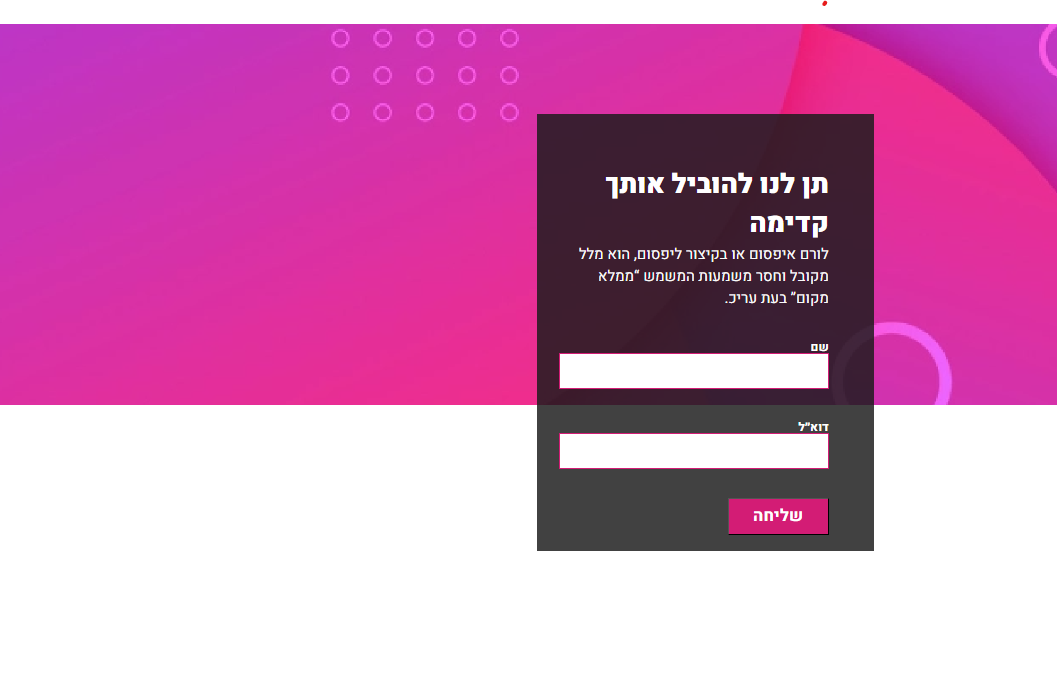
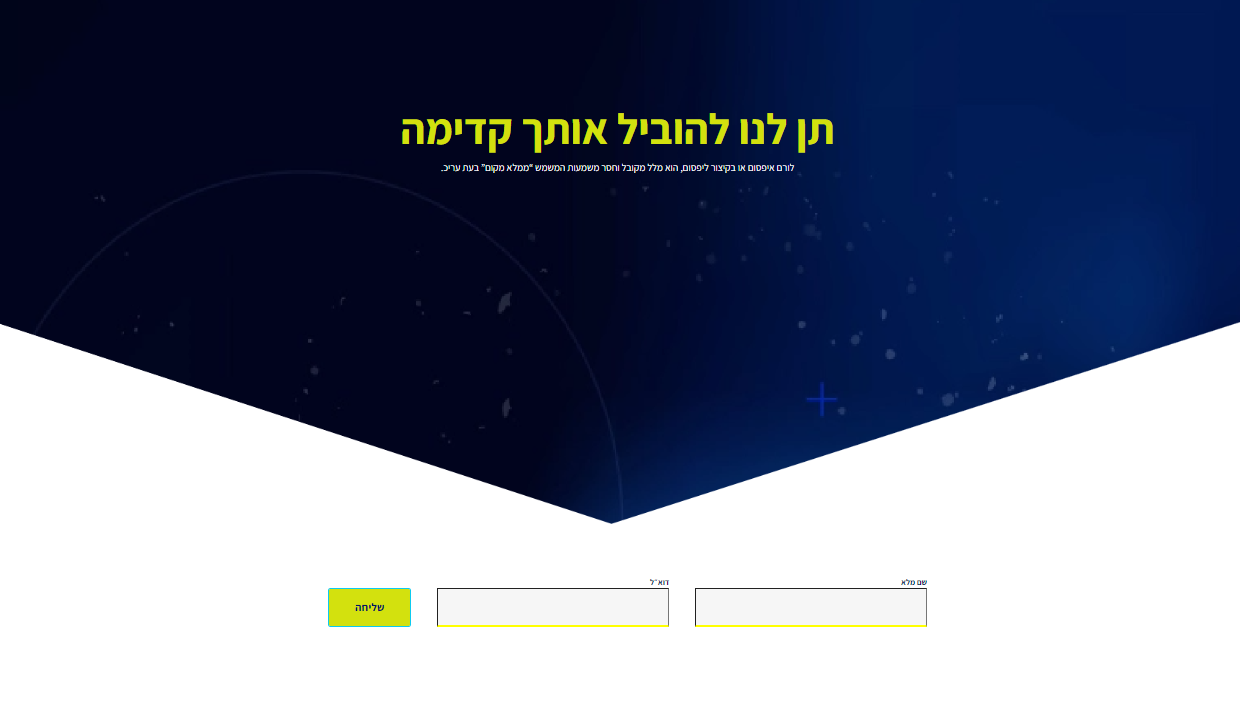
end project 4

diff --git a/projects/projectName4/style/project4.css b/projects/projectName4/style/project4.css
@@ -7,132 +7,111 @@
 html {
   scroll-behavior: smooth;
 }
+
 .mainBox {
   width: 100vw;
   display: flex;
   flex-direction: column;
   align-items: center;
-  margin-top: 26vh;
+  margin-top: 16vh;
 }
 h1 {
   font: normal normal bold 86px/113px Assistant;
-  letter-spacing: 0px;
-  color: #d3e10e;
+   color: #d3e10e;
 }
 p {
   font: normal normal normal 20px/26px Assistant;
-  letter-spacing: 0px;
+  
   color: #f9f9f9;
   /* margin-bottom: 38vh; */
 }
 
-.gridForm{
+.gridForm {
   display: grid;
-  grid-template-columns:  20vw 20vw 8vw;
-  grid-template-rows: auto auto ;
-  margin-top: 37vh;
-  gap: 3vw;
+  grid-template-columns: 20vw 20vw 8vw;
+  grid-template-rows: auto auto;
+  margin-top: 50vh;
   
-  /* background-color: pink; */
-  /* gap: 20px; */
 }
-
-.gridItem{
-  /* background-color: #f0f0f0; Light gray background */
-  /* border: 1px solid #ccc; Border for grid items */
-  /* padding: 10px; Add padding for spacing */
-}
-
 
 .form-control-input {
-  width: 20vw;
+  width: 18vw;
   height: 5vh;
-  /* height: 50px; */
-  /* UI Properties */
+  
   background: #f6f6f6 0% 0% no-repeat padding-box;
-  /* margin-left: 20px; */
+  
+  border-bottom: 5px solid yellow;
 }
 
 .form-control-label {
+  width: 18vw;
   font: normal normal bold 16px/21px Assistant;
-  letter-spacing: 0px;
+  
   color: #011560;
-  height: 5vh;
-  /* margin-left: 20px; */
+  
 }
 
 .submitFont {
-  width: 8vw;
+  width: 166px;
   height: 5vh;
   font: normal normal bold 22px/30px Assistant;
   letter-spacing: 0.33px;
   color: #011560;
   background: #d3e10e 0% 0% no-repeat padding-box;
-  
+  color: #011560;
 }
 .submitFont:hover {
   background-color: lightyellow;
 }
 
-@media (max-width: 1200px) {
-  .mainBox {
-    width: 80vw;
-    height: 70vh;
-  }
+.imageForMobile {
+  display: none;
+}
 
-  #container {
-    flex-direction: column;
+/* @media (max-width: 1200px) { */
+@media (max-width: 768px) {
+  .imageForMobile {
+    display: block;
+    /* width: 100%; */
   }
-  .container-img {
-    width: 100vw;
+  .mainBox{
+    margin-top: 0vh;
   }
-  .container-img > img {
-    width: 100%;
-    height: 30vh;
-    object-fit: cover;
+  .bodyFormat {
+    background: none;
   }
   h1 {
-    font: normal normal 900 1em Heebo;
-    width: 70vw;
+    display: none;
   }
   p {
-    font: normal normal normal 0.8em Heebo;
-    width: 70vw;
-  }
-  #email,
-  #name {
-    width: 70vw;
-    height: 2.5vm;
+    display: none;
   }
 
-  .container-form {
-    width: 100%;
-    margin-top: 5em;
-  }
-  /* .form-control > label { */
-  .form-control-label {
-    font: normal normal bold 0.8em Heebo;
-    /* height: 14px; */
-
-    color: #2c2c2c;
-
-    /* margin-bottom: 5px; */
-  }
-  .container-form-title > h1 {
-    font: normal normal 900 28px/41px Heebo;
-
-    color: #020253;
-  }
-  .container-form-title > p {
+  form-control-label {
     font: normal normal normal 15px/22px Heebo;
+  }
 
-    color: #020253;
-  }
-  .container-form-title {
-    width: 78%;
-  }
   .submitFont {
-    width: 22vw;
-    font: normal normal bold 0.9em Heebo;
+    font: normal normal bold 14px/19px Heebo;
+  }
+
+  .gridForm {
+    display: grid;
+    grid-template-columns: 80vw;
+    margin-right:20vw;
+  }
+  .emailLabel {
+    grid-column: 1;
+    grid-row: 4/5;
+  }
+  .form-control-input,
+  .submitFont {
+    width: 80%;
+    margin-bottom: 10px;
+  }
+  .gridForm {
+   
+    margin-top: 5vh;
+   
   }
 }

diff --git a/projects/projectName4/project4.html b/projects/projectName4/project4.html
@@ -7,61 +7,73 @@
       href="https://fonts.googleapis.com/css2?family=Heebo:wght@100..900&display=swap"
       rel="stylesheet"
     />
+    <link rel="preconnect" href="https://fonts.googleapis.com" />
+    <link rel="preconnect" href="https://fonts.gstatic.com" crossorigin />
+    <link
+      href="https://fonts.googleapis.com/css2?family=Assistant:wght@200..800&display=swap"
+      rel="stylesheet"
+    />
+
     <meta charset="UTF-8" />
     <meta name="viewport" content="width=device-width, initial-scale=1.0" />
     <title>Project 4</title>
     <link
-    href="https://cdn.jsdelivr.net/npm/bootstrap@5.3.3/dist/css/bootstrap.min.css"
-    rel="stylesheet"
-    integrity="sha384-QWTKZyjpPEjISv5WaRU9OFeRpok6YctnYmDr5pNlyT2bRjXh0JMhjY6hW+ALEwIH"
-    crossorigin="anonymous"
-  />
+      href="https://cdn.jsdelivr.net/npm/bootstrap@5.3.3/dist/css/bootstrap.min.css"
+      rel="stylesheet"
+      integrity="sha384-QWTKZyjpPEjISv5WaRU9OFeRpok6YctnYmDr5pNlyT2bRjXh0JMhjY6hW+ALEwIH"
+      crossorigin="anonymous"
+    />
     <link rel="stylesheet" href="style/project4.css" />
     <style>
-      body {
+      .bodyFormat {
         background: transparent url("images/imageTop.png") 0% 0% no-repeat;
-        background-size: cover;
+        background-size: 100vw 70vh;
+
         /* padding-box:; */
         height: 40vh;
-      }
-    </style>
+      
+      } 
+    </style> 
   </head>
 
-  <body>
+  <body class="bodyFormat">
+   
     <!-- <img src="images/imageTop.png" alt=""> -->
     <div dir="rtl" class="mainBox">
+      <div class="imageForMobile"><img src="./images/ImageMobile.png" alt=""></div>
       <h1>תן לנו להוביל אותך קדימה</h1>
       <p>
         לורם איפסום או בקיצור ליפסום, הוא מלל מקובל וחסר משמעות המשמש “ממלא
         מקום” בעת עריכ.
       </p>
 
-      <div class="gridForm">
-        <div class="gridItem">
-          <label for="name" class="form-control-label">שם מלא</label>
-        </div>
-        <div class="gridItem"><label for="email" class="form-control-label">דוא״ל</label></div>
-        <div class="gridItem"></div>
-        <div class="gridItem">
-          <input
-            type="text"
-            id="name"
-            name="name"
-            class="form-control-input"
-            required
-          />
-        </div>
-        <div class="gridItem"> <input
+      <form class="gridForm">
+        <label for="name" class="form-control-label">שם מלא</label>
+
+        <label for="email" class="form-control-label emailLabel">דוא״ל</label>
+
+        <div></div>
+
+        <input
+          type="text"
+          id="name"
+          name="name"
+          class="form-control-input"
+          required
+        />
+
+        <input
           type="email"
           id="email"
           name="email"
           class="form-control-input"
           required
-        /></div>
-        <div class="gridItem">  <button type="submit" class="btn btn-info btn-sm float-end submitFont"></button></div>
-      </div>
+        />
 
-   
+        <button type="submit" class="btn btn-info btn-sm float-end submitFont">
+          שליחה
+        </button>
+      </form>
     </div>
 
     <script

diff --git a/projects/projectName4/project4LandingPage.html b/projects/projectName4/project4LandingPage.html
@@ -79,7 +79,7 @@
           </div>
           <div class="col col-lg-3 col-md-12 col-sm-12 colProj2">
             
-            <a class="projectLinkButton" href="project1.html" target="_blank"
+            <a class="projectLinkButton" href="project4.html" target="_blank"
               >&lt&lt לצפייה בפרויקט</a
             >
           </div>
